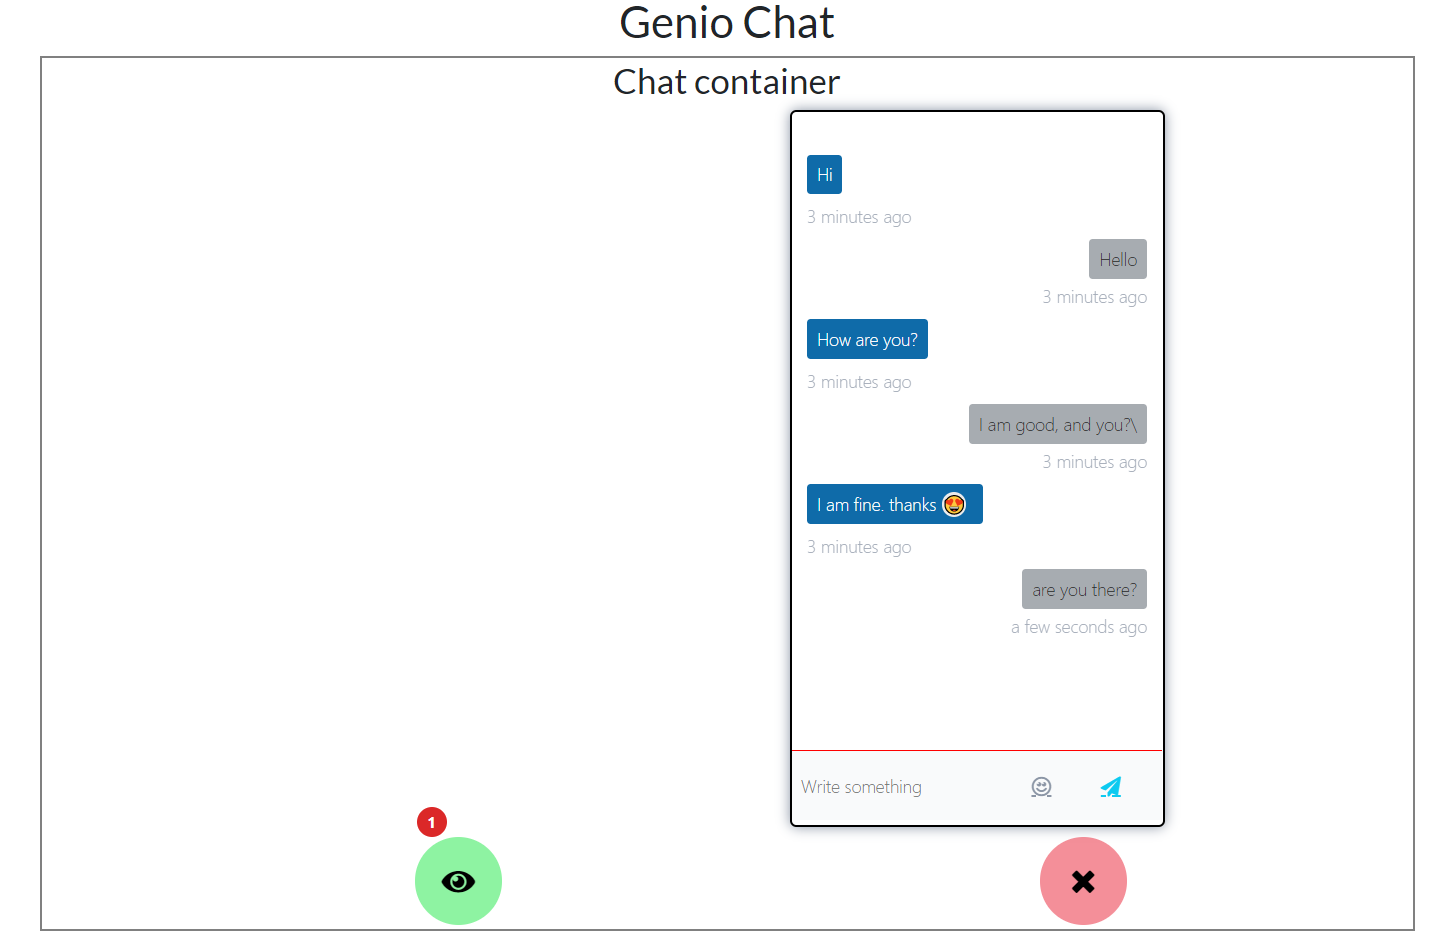
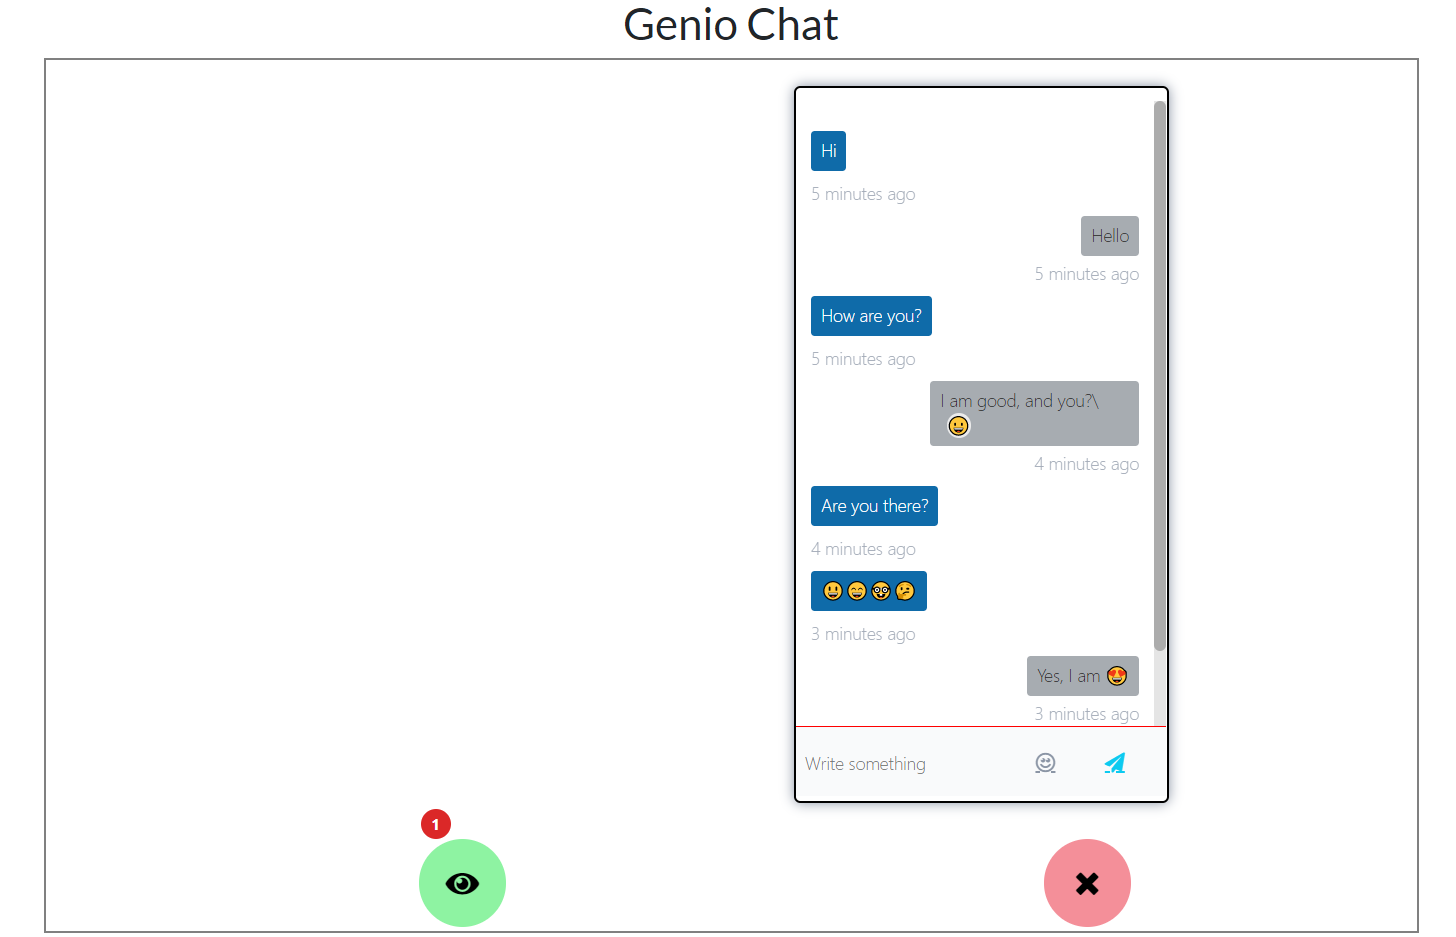
Readme and mockup update

diff --git a/src/components/container.jsx b/src/components/container.jsx
@@ -158,7 +158,6 @@ const Container = () => {
   };
   return (
     <div className="chat-container">
-      <h2>Chat container</h2>
       <ChatBox
         unseen={unseen1}
         typing={typing1}

diff --git a/src/components/style.css b/src/components/style.css
@@ -1,5 +1,6 @@
 .chat-container {
   height: 650px;
+  padding-top: 20px;
 }
 .chatBox-container {
   padding: 10px;

diff --git a/README.md b/README.md
@@ -2,7 +2,7 @@
 
 A simple web based application developed using React.js. The App consists of multi components which are nested together to produce single page app.
 
-### Instlation
+### Installation
 
 It is required that you have already instlled `Node.js` and `React.js`
 
@@ -18,7 +18,8 @@ cd genioChat
 npm install
 ```
 
- ## ![#f03c15](https://via.placeholder.com/15/f03c15/f03c15.png)  **NOTE IMPORTANT** 
+## ![#f03c15](https://via.placeholder.com/15/f03c15/f03c15.png) **NOTE IMPORTANT**
+
 > Please Delete the extra `;` in `./node_modules/semantic-ui-css/semantic.min.css` and in `./node_modules/semantic-ui-css/semantic.css`
 
 > Open each file and `ctrl+f` search for `;;` and replaced with `;` and save it.
@@ -34,6 +35,10 @@ npm start
 ### The hierarchy of the Components
 
 ![alt text](https://github.com/mohammedmrm/genioChat/blob/main/Doc/Components.drawio.png)
+
+## Mockup
+
+![alt text](https://github.com/mohammedmrm/genioChat/blob/main/Doc/mockup.png)
 
 ## Functionalities of the App
 
